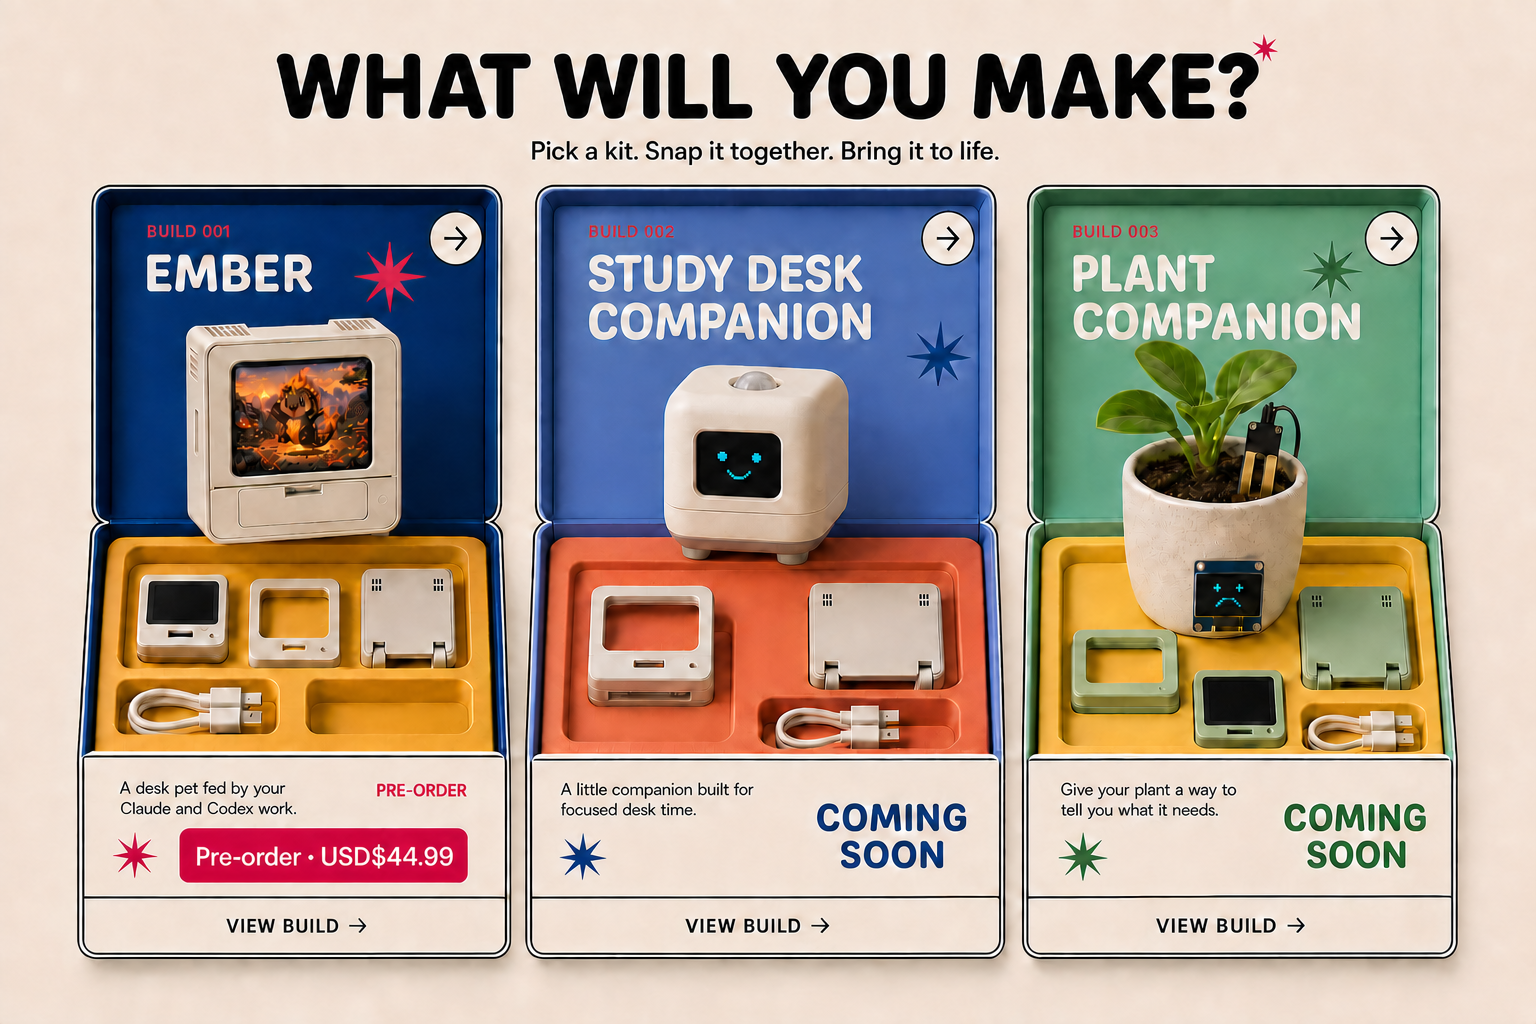
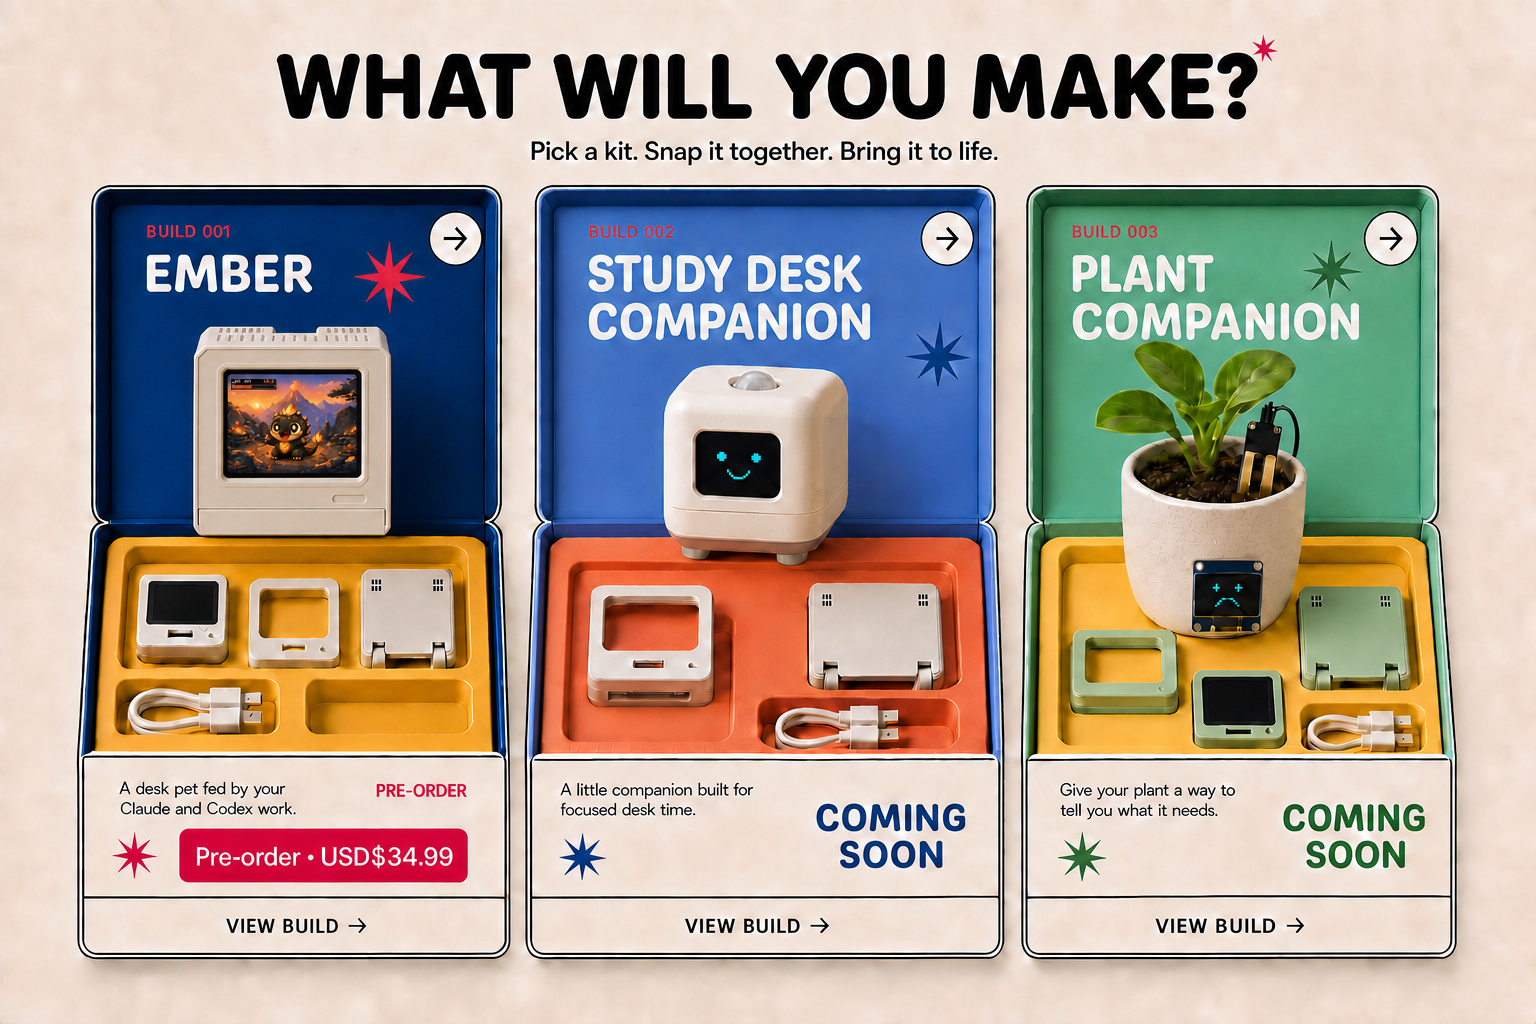
Smooth landing scroll and refresh catalogue

diff --git a/apps/landing/app/page.tsx b/apps/landing/app/page.tsx
@@ -158,7 +158,7 @@ export default function Home() {
     setProductPresentationVisible(false);
 
     const lenis = new Lenis({
-      duration: 1.25,
+      duration: 1.4,
       smoothWheel: true,
       syncTouch: false,
     });
@@ -184,12 +184,11 @@ export default function Home() {
     let drawRequest = 0;
     let disposed = false;
     let allFramesDecoded = false;
-    let currentScene = 0;
-    let transitioning = false;
-    let touchStartY = 0;
     const keyframes = [0, 72, 156, 282];
+    const offerFrame = keyframes[keyframes.length - 1];
+    let introVisible = true;
+    let offerVisible = false;
 
-    const atSceneBoundary = (direction: number) => direction < 0 && currentScene === 0;
     const recordStoryMilestone = (scene: number) => {
       if (seenStoryMilestonesRef.current.has(scene)) return;
       seenStoryMilestonesRef.current.add(scene);
@@ -200,63 +199,19 @@ export default function Home() {
     };
 
     const activateCatalogue = () => {
-      if (transitioning || currentScene !== keyframes.length - 1) return;
-      transitioning = true;
-      currentScene = keyframes.length;
-      setActiveScene(-1);
-
       lenis.scrollTo(catalogue.offsetTop, {
-        duration: 2.2,
+        duration: 1.6,
         lock: true,
         force: true,
         easing: (value: number) => value * value * value * (value * (value * 6 - 15) + 10),
         onComplete: () => {
           setActiveScene(keyframes.length);
           recordStoryMilestone(keyframes.length);
-          transitioning = false;
         },
       });
     };
 
     const onCatalogueRequest = () => activateCatalogue();
-
-    const activateScene = (nextScene: number) => {
-      if (transitioning || nextScene === currentScene || nextScene < 0 || nextScene >= keyframes.length) return;
-      transitioning = true;
-      currentScene = nextScene;
-      if (nextScene < keyframes.length - 1) setProductPresentationVisible(false);
-      setActiveScene(-1);
-
-      const scrollRange = Math.max(0, story.offsetHeight - window.innerHeight);
-      const sceneRange = scrollRange * 0.84;
-      lenis.scrollTo(story.offsetTop + (nextScene / (keyframes.length - 1)) * sceneRange, {
-        duration: 1.25,
-        easing: (value: number) => 1 - Math.pow(1 - value, 4),
-      });
-
-      gsap.to(playhead, {
-        frame: keyframes[nextScene],
-        duration: 1.25,
-        ease: "power3.inOut",
-        overwrite: true,
-        onUpdate: () => {
-          requestedFrame = playhead.frame;
-          scheduleDraw();
-        },
-        onComplete: () => {
-          if (nextScene === keyframes.length - 1) {
-            setProductPresentationVisible(true);
-            if (!seenEmberOfferRef.current) {
-              seenEmberOfferRef.current = true;
-              captureMakeableEvent("ember offer viewed", { entry_point: "scroll_story" });
-            }
-          }
-          recordStoryMilestone(nextScene);
-          setActiveScene(nextScene);
-          transitioning = false;
-        },
-      });
-    };
 
     const drawImageCover = (image: HTMLImageElement) => {
       const width = canvas.width;
@@ -341,76 +296,56 @@ export default function Home() {
       } catch (error) {
         console.error(`Could not decode frame ${index + 1}`, error);
       } finally {
+        if (Math.abs(index - Math.floor(requestedFrame)) <= 1) scheduleDraw();
         void loadNext();
       }
     };
     for (let worker = 0; worker < 8; worker++) void loadNext();
 
-    const onWheel = (event: WheelEvent) => {
-      if (Math.abs(event.deltaY) < 6) return;
-      const direction = Math.sign(event.deltaY);
-      if (!transitioning && direction > 0 && currentScene === keyframes.length - 1) {
-        event.preventDefault();
-        event.stopPropagation();
-        activateCatalogue();
-        return;
+    const updateFromScroll = () => {
+      const storyStart = story.offsetTop;
+      const storyEnd = storyStart + story.offsetHeight - window.innerHeight;
+      const finalHold = window.innerHeight * 0.75;
+      const animationEnd = Math.max(storyStart + 1, storyEnd - finalHold);
+      const progress = Math.max(0, Math.min(1, (window.scrollY - storyStart) / (animationEnd - storyStart)));
+      const nextFrame = progress * (totalFrames - 1);
+
+      playhead.frame = nextFrame;
+      requestedFrame = nextFrame;
+      scheduleDraw();
+
+      const nextIntroVisible = progress <= 0.025;
+      if (nextIntroVisible !== introVisible) {
+        introVisible = nextIntroVisible;
+        setActiveScene(nextIntroVisible ? 0 : -1);
       }
-      if (!transitioning && atSceneBoundary(direction)) return;
-      event.preventDefault();
-      event.stopPropagation();
-      activateScene(currentScene + direction);
-    };
-    const onTouchStart = (event: TouchEvent) => {
-      touchStartY = event.touches[0]?.clientY ?? 0;
-    };
-    const onTouchMove = (event: TouchEvent) => {
-      const currentY = event.touches[0]?.clientY ?? touchStartY;
-      const direction = Math.sign(touchStartY - currentY);
-      if (!transitioning && atSceneBoundary(direction)) return;
-      event.preventDefault();
-      event.stopPropagation();
-    };
-    const onTouchEnd = (event: TouchEvent) => {
-      const endY = event.changedTouches[0]?.clientY ?? touchStartY;
-      const distance = touchStartY - endY;
-      const direction = Math.sign(distance);
-      if (Math.abs(distance) < 28) return;
-      if (!transitioning && direction > 0 && currentScene === keyframes.length - 1) {
-        activateCatalogue();
-        return;
+
+      const nextOfferVisible = nextFrame >= offerFrame;
+      if (nextOfferVisible !== offerVisible) {
+        offerVisible = nextOfferVisible;
+        setProductPresentationVisible(nextOfferVisible);
+        if (nextOfferVisible && !seenEmberOfferRef.current) {
+          seenEmberOfferRef.current = true;
+          captureMakeableEvent("ember offer viewed", { entry_point: "scroll_story" });
+        }
       }
-      if (!transitioning && atSceneBoundary(direction)) return;
-      activateScene(currentScene + direction);
+
+      keyframes.forEach((frame, scene) => {
+        if (nextFrame >= frame) recordStoryMilestone(scene);
+      });
     };
-    const onKeyDown = (event: KeyboardEvent) => {
-      const direction = ["ArrowDown", "PageDown", " "].includes(event.key) ? 1 : ["ArrowUp", "PageUp"].includes(event.key) ? -1 : 0;
-      if (!direction) return;
-      if (!transitioning && direction > 0 && currentScene === keyframes.length - 1) {
-        event.preventDefault();
-        activateCatalogue();
-        return;
-      }
-      if (!transitioning && atSceneBoundary(direction)) return;
-      event.preventDefault();
-      activateScene(currentScene + direction);
-    };
-    story.addEventListener("wheel", onWheel, { passive: false, capture: true });
-    story.addEventListener("touchstart", onTouchStart, { passive: true });
-    story.addEventListener("touchmove", onTouchMove, { passive: false, capture: true });
-    story.addEventListener("touchend", onTouchEnd, { passive: true });
-    window.addEventListener("keydown", onKeyDown);
+
+    window.addEventListener("scroll", updateFromScroll, { passive: true });
+    window.addEventListener("resize", updateFromScroll);
     window.addEventListener("makeable:show-catalogue", onCatalogueRequest);
+    updateFromScroll();
 
     return () => {
       disposed = true;
       resizeObserver.disconnect();
       cancelAnimationFrame(drawRequest);
-      gsap.killTweensOf(playhead);
-      story.removeEventListener("wheel", onWheel, true);
-      story.removeEventListener("touchstart", onTouchStart);
-      story.removeEventListener("touchmove", onTouchMove, true);
-      story.removeEventListener("touchend", onTouchEnd);
-      window.removeEventListener("keydown", onKeyDown);
+      window.removeEventListener("scroll", updateFromScroll);
+      window.removeEventListener("resize", updateFromScroll);
       window.removeEventListener("makeable:show-catalogue", onCatalogueRequest);
       gsap.ticker.remove(tick);
       lenis.destroy();
@@ -597,7 +532,7 @@ export default function Home() {
 
       <section className="catalogue" id="builds" ref={catalogueRef} aria-label="Browse more Makeable builds">
         <div className="catalogue-artwork">
-          <img className="catalogue-sheet" src="/build-catalogue-page.png?v=3" alt="What will you make? Ember, Study Desk Companion, and Plant Companion build catalogue" />
+          <img className="catalogue-sheet" src="/build-catalogue-page.png?v=4" alt="What will you make? Ember, Study Desk Companion, and Plant Companion build catalogue" />
           <button
             className={`catalogue-preorder ${checkoutBusy ? "is-busy" : ""}`}
             type="button"

diff --git a/apps/landing/app/globals.css b/apps/landing/app/globals.css
@@ -14,7 +14,7 @@ html { width: 100%; max-width: 100%; overflow-x: clip; scroll-behavior: auto; ba
 body, main { width: 100%; max-width: 100%; overflow-x: clip; }
 body { margin: 0; background: var(--paper); color: var(--ink); font-family: var(--display); }
 button, input, textarea, select { font-family: inherit; }
-.scroll-story { position: relative; height: 400svh; background: #07162e; }
+.scroll-story { position: relative; height: 600svh; background: #07162e; }
 .experience { position: sticky; top: 0; height: 100svh; background: #07162e; color: white; overflow: hidden; }
 .film-frame { position: absolute; inset: clamp(.75rem, 2vw, 1.6rem); overflow: hidden; background: #d9cec0; }
 .film-frame canvas { width: 100%; height: 100%; min-width: 100%; min-height: 100%; display: block; }
